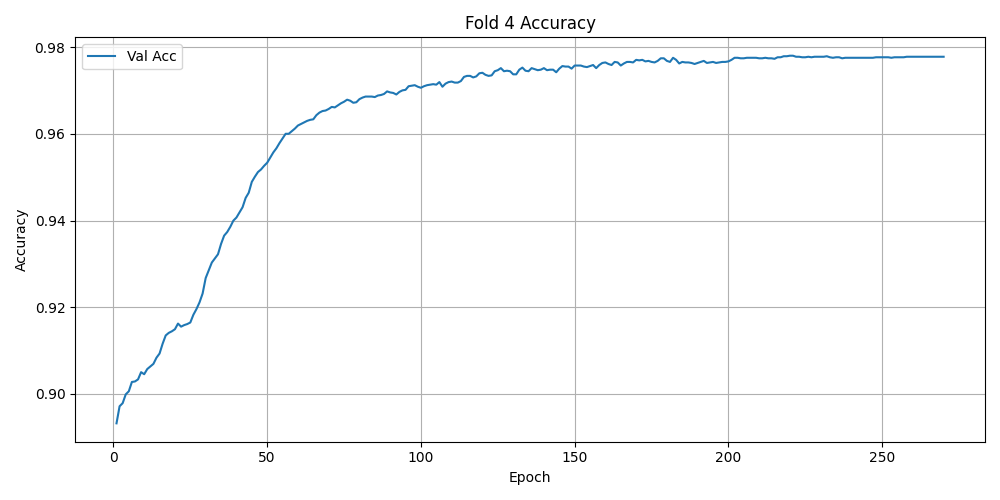
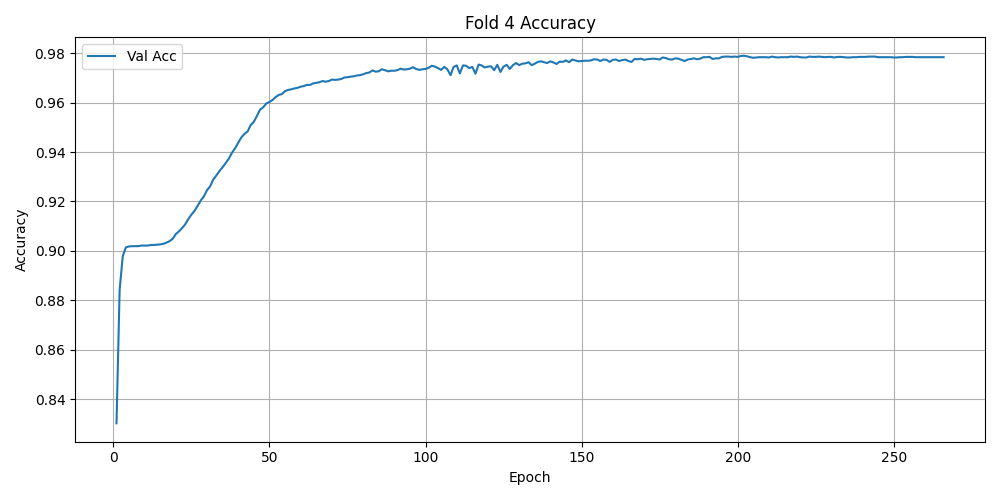
Update model configurations and training parameters; enhance hidden channels, learning rate, and patience; modify inference notebook execution counts; add subgraph notebook; update test accuracy results and loss/accuracy curves.

diff --git a/train.py b/train.py
@@ -62,7 +62,7 @@ train_indices = known_indices[perm[:n0]]
 valid_indices = known_indices[perm[n0:n0 + n1]]
 test_indices  = known_indices[perm[n0 + n1:]]
 
-device = torch.device('cuda:3' if torch.cuda.is_available() else 'cpu')
+device = torch.device('cuda:2' if torch.cuda.is_available() else 'cpu')
 logger.info(f"Using device: {device}")
 data = data.to(device)
 
